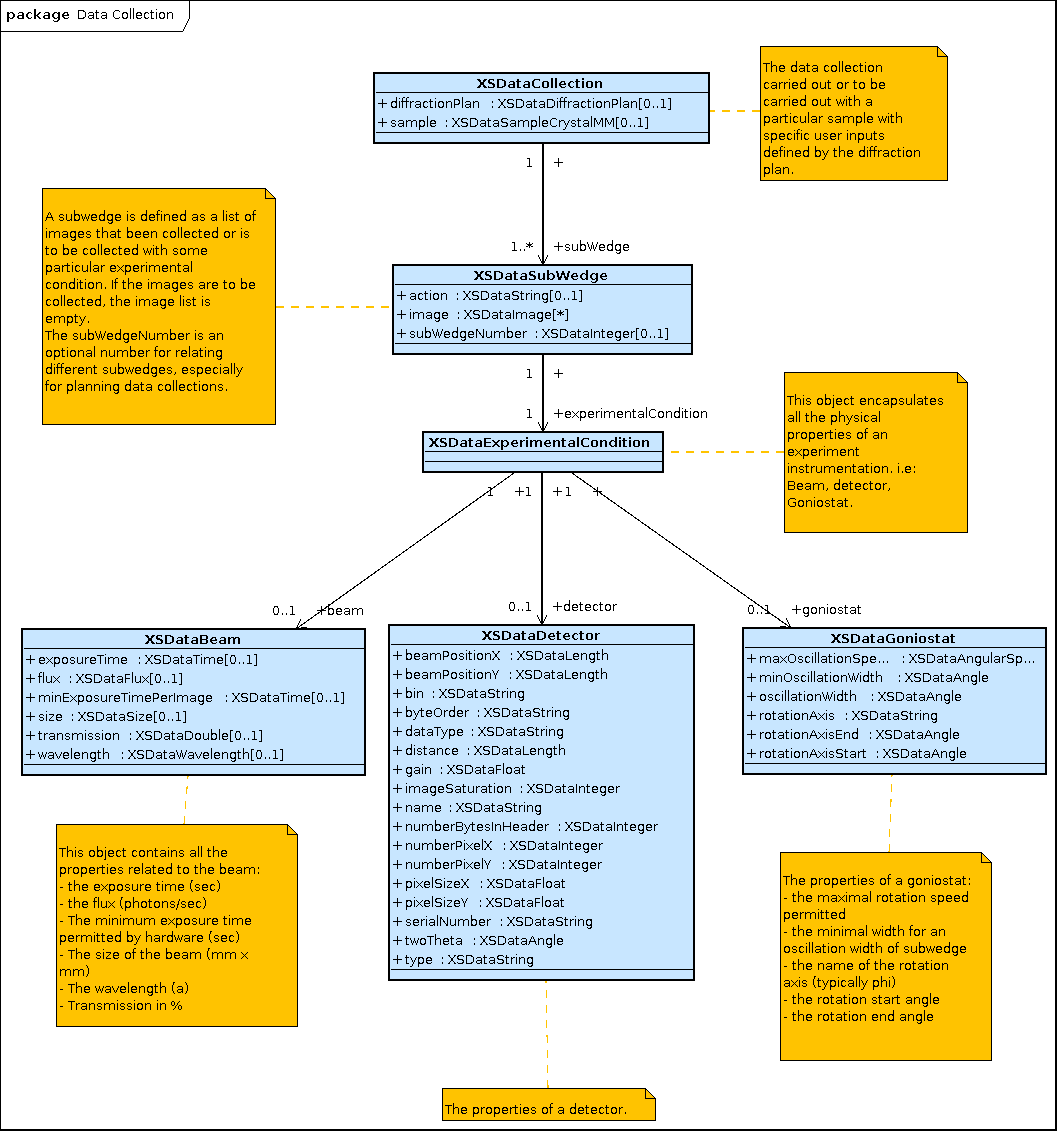
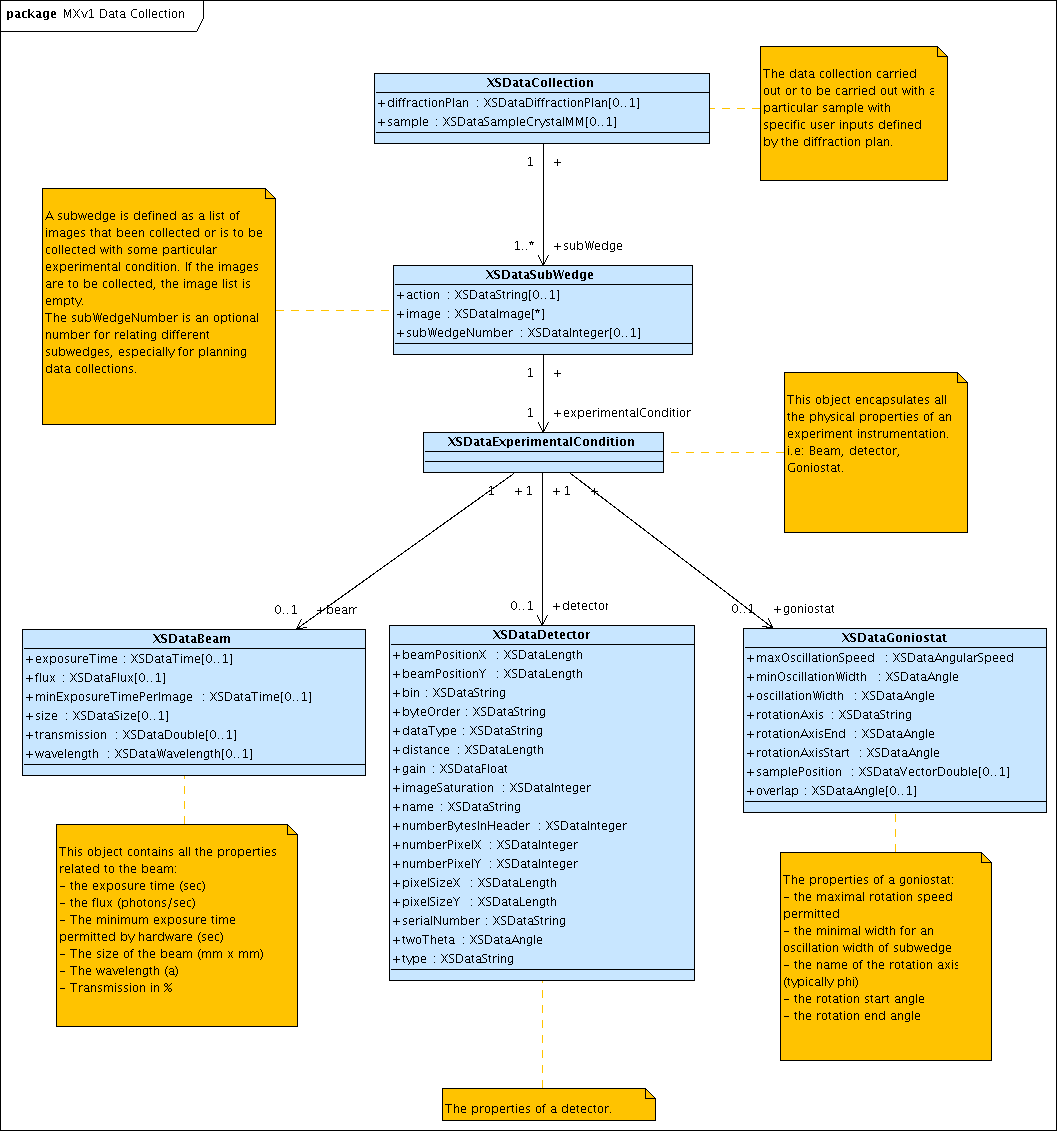
Added optional overlap to XSDataGoniostat
git-svn-id: https://forge.epn-campus.eu/svn/edna/trunk/edna@3735 4fc0fbde-e734-0410-b98b-b551705f41f8

diff --git a/mxv1/src/XSDataMXv1.py b/mxv1/src/XSDataMXv1.py
@@ -1,7 +1,7 @@
 #!/usr/bin/env python
 
 #
-# Generated Thu Sep 1 05:08::30 2011 by EDGenerateDS.
+# Generated Tue Oct 18 02:24::54 2011 by EDGenerateDS.
 #
 
 import sys
@@ -914,6 +914,103 @@ class XSDataChain(XSData):
 	parseFile = staticmethod( parseFile )
 # end class XSDataChain
 
+class XSDataChemicalCompositionMM(XSData):
+	"""This is the composition of a crystal sample of a Macro Molecule (MM stand for Macro Molecule)"""
+	def __init__(self, structure=None, solvent=None):
+		XSData.__init__(self, )
+		checkType("XSDataChemicalCompositionMM", "Constructor of XSDataChemicalCompositionMM", solvent, "XSDataSolvent")
+		self.__solvent = solvent
+		checkType("XSDataChemicalCompositionMM", "Constructor of XSDataChemicalCompositionMM", structure, "XSDataStructure")
+		self.__structure = structure
+	def getSolvent(self): return self.__solvent
+	def setSolvent(self, solvent):
+		checkType("XSDataChemicalCompositionMM", "setSolvent", solvent, "XSDataSolvent")
+		self.__solvent = solvent
+	def delSolvent(self): self.__solvent = None
+	# Properties
+	solvent = property(getSolvent, setSolvent, delSolvent, "Property for solvent")
+	def getStructure(self): return self.__structure
+	def setStructure(self, structure):
+		checkType("XSDataChemicalCompositionMM", "setStructure", structure, "XSDataStructure")
+		self.__structure = structure
+	def delStructure(self): self.__structure = None
+	# Properties
+	structure = property(getStructure, setStructure, delStructure, "Property for structure")
+	def export(self, outfile, level, name_='XSDataChemicalCompositionMM'):
+		showIndent(outfile, level)
+		outfile.write(unicode('<%s>\n' % name_))
+		self.exportChildren(outfile, level + 1, name_)
+		showIndent(outfile, level)
+		outfile.write(unicode('</%s>\n' % name_))
+	def exportChildren(self, outfile, level, name_='XSDataChemicalCompositionMM'):
+		XSData.exportChildren(self, outfile, level, name_)
+		if self.__solvent is not None:
+			self.solvent.export(outfile, level, name_='solvent')
+		else:
+			warnEmptyAttribute("solvent", "XSDataSolvent")
+		if self.__structure is not None:
+			self.structure.export(outfile, level, name_='structure')
+		else:
+			warnEmptyAttribute("structure", "XSDataStructure")
+	def build(self, node_):
+		for child_ in node_.childNodes:
+			nodeName_ = child_.nodeName.split(':')[-1]
+			self.buildChildren(child_, nodeName_)
+	def buildChildren(self, child_, nodeName_):
+		if child_.nodeType == Node.ELEMENT_NODE and \
+			nodeName_ == 'solvent':
+			obj_ = XSDataSolvent()
+			obj_.build(child_)
+			self.setSolvent(obj_)
+		elif child_.nodeType == Node.ELEMENT_NODE and \
+			nodeName_ == 'structure':
+			obj_ = XSDataStructure()
+			obj_.build(child_)
+			self.setStructure(obj_)
+		XSData.buildChildren(self, child_, nodeName_)
+	#Method for marshalling an object
+	def marshal( self ):
+		oStreamString = StringIO()
+		oStreamString.write(unicode('<?xml version="1.0" ?>\n'))
+		self.export( oStreamString, 0, name_="XSDataChemicalCompositionMM" )
+		oStringXML = oStreamString.getvalue()
+		oStreamString.close()
+		return oStringXML
+	#Only to export the entire XML tree to a file stream on disk
+	def exportToFile( self, _outfileName ):
+		outfile = open( _outfileName, "w" )
+		outfile.write(unicode('<?xml version=\"1.0\" ?>\n'))
+		self.export( outfile, 0, name_='XSDataChemicalCompositionMM' )
+		outfile.close()
+	#Deprecated method, replaced by exportToFile
+	def outputFile( self, _outfileName ):
+		print("WARNING: Method outputFile in class XSDataChemicalCompositionMM is deprecated, please use instead exportToFile!")
+		self.exportToFile(_outfileName)
+	#Method for making a copy in a new instance
+	def copy( self ):
+		return XSDataChemicalCompositionMM.parseString(self.marshal())
+	#Static method for parsing a string
+	def parseString( _inString ):
+		doc = minidom.parseString(_inString)
+		rootNode = doc.documentElement
+		rootObj = XSDataChemicalCompositionMM()
+		rootObj.build(rootNode)
+		# Check that all minOccurs are obeyed by marshalling the created object
+		oStreamString = StringIO()
+		rootObj.export( oStreamString, 0, name_="XSDataChemicalCompositionMM" )
+		oStreamString.close()
+		return rootObj
+	parseString = staticmethod( parseString )
+	#Static method for parsing a file
+	def parseFile( _inFilePath ):
+		doc = minidom.parse(_inFilePath)
+		rootNode = doc.documentElement
+		rootObj = XSDataChemicalCompositionMM()
+		rootObj.build(rootNode)
+		return rootObj
+	parseFile = staticmethod( parseFile )
+# end class XSDataChemicalCompositionMM
+
 class XSDataCollection(XSData):
 	"""The data collection carried out or to be carried out with a particular sample with specific user inputs defined by the diffraction plan."""
 	def __init__(self, subWedge=None, sample=None, diffractionPlan=None):
@@ -1035,7 +1132,8 @@ class XSDataCollection(XSData):
 # end class XSDataCollection
 
 class XSDataCharacterisation(XSData):
-	"""These classes are deprecated and will be removed once the corresponding plugins that use them have been removed."""
+	"""Deprecated - only used by EDPluginControlCharacterisationv10
+"""
 	def __init__(self, strategyResult=None, integrationResult=None, indexingResult=None, dataCollection=None):
 		XSData.__init__(self, )
 		checkType("XSDataCharacterisation", "Constructor of XSDataCharacterisation", dataCollection, "XSDataCollection")
@@ -1160,103 +1258,6 @@ class XSDataCharacterisation(XSData):
 		return rootObj
 	parseFile = staticmethod( parseFile )
 # end class XSDataCharacterisation
-
-class XSDataChemicalCompositionMM(XSData):
-	"""This is the composition of a crystal sample of a Macro Molecule (MM stand for Macro Molecule)"""
-	def __init__(self, structure=None, solvent=None):
-		XSData.__init__(self, )
-		checkType("XSDataChemicalCompositionMM", "Constructor of XSDataChemicalCompositionMM", solvent, "XSDataSolvent")
-		self.__solvent = solvent
-		checkType("XSDataChemicalCompositionMM", "Constructor of XSDataChemicalCompositionMM", structure, "XSDataStructure")
-		self.__structure = structure
-	def getSolvent(self): return self.__solvent
-	def setSolvent(self, solvent):
-		checkType("XSDataChemicalCompositionMM", "setSolvent", solvent, "XSDataSolvent")
-		self.__solvent = solvent
-	def delSolvent(self): self.__solvent = None
-	# Properties
-	solvent = property(getSolvent, setSolvent, delSolvent, "Property for solvent")
-	def getStructure(self): return self.__structure
-	def setStructure(self, structure):
-		checkType("XSDataChemicalCompositionMM", "setStructure", structure, "XSDataStructure")
-		self.__structure = structure
-	def delStructure(self): self.__structure = None
-	# Properties
-	structure = property(getStructure, setStructure, delStructure, "Property for structure")
-	def export(self, outfile, level, name_='XSDataChemicalCompositionMM'):
-		showIndent(outfile, level)
-		outfile.write(unicode('<%s>\n' % name_))
-		self.exportChildren(outfile, level + 1, name_)
-		showIndent(outfile, level)
-		outfile.write(unicode('</%s>\n' % name_))
-	def exportChildren(self, outfile, level, name_='XSDataChemicalCompositionMM'):
-		XSData.exportChildren(self, outfile, level, name_)
-		if self.__solvent is not None:
-			self.solvent.export(outfile, level, name_='solvent')
-		else:
-			warnEmptyAttribute("solvent", "XSDataSolvent")
-		if self.__structure is not None:
-			self.structure.export(outfile, level, name_='structure')
-		else:
-			warnEmptyAttribute("structure", "XSDataStructure")
-	def build(self, node_):
-		for child_ in node_.childNodes:
-			nodeName_ = child_.nodeName.split(':')[-1]
-			self.buildChildren(child_, nodeName_)
-	def buildChildren(self, child_, nodeName_):
-		if child_.nodeType == Node.ELEMENT_NODE and \
-			nodeName_ == 'solvent':
-			obj_ = XSDataSolvent()
-			obj_.build(child_)
-			self.setSolvent(obj_)
-		elif child_.nodeType == Node.ELEMENT_NODE and \
-			nodeName_ == 'structure':
-			obj_ = XSDataStructure()
-			obj_.build(child_)
-			self.setStructure(obj_)
-		XSData.buildChildren(self, child_, nodeName_)
-	#Method for marshalling an object
-	def marshal( self ):
-		oStreamString = StringIO()
-		oStreamString.write(unicode('<?xml version="1.0" ?>\n'))
-		self.export( oStreamString, 0, name_="XSDataChemicalCompositionMM" )
-		oStringXML = oStreamString.getvalue()
-		oStreamString.close()
-		return oStringXML
-	#Only to export the entire XML tree to a file stream on disk
-	def exportToFile( self, _outfileName ):
-		outfile = open( _outfileName, "w" )
-		outfile.write(unicode('<?xml version=\"1.0\" ?>\n'))
-		self.export( outfile, 0, name_='XSDataChemicalCompositionMM' )
-		outfile.close()
-	#Deprecated method, replaced by exportToFile
-	def outputFile( self, _outfileName ):
-		print("WARNING: Method outputFile in class XSDataChemicalCompositionMM is deprecated, please use instead exportToFile!")
-		self.exportToFile(_outfileName)
-	#Method for making a copy in a new instance
-	def copy( self ):
-		return XSDataChemicalCompositionMM.parseString(self.marshal())
-	#Static method for parsing a string
-	def parseString( _inString ):
-		doc = minidom.parseString(_inString)
-		rootNode = doc.documentElement
-		rootObj = XSDataChemicalCompositionMM()
-		rootObj.build(rootNode)
-		# Check that all minOccurs are obeyed by marshalling the created object
-		oStreamString = StringIO()
-		rootObj.export( oStreamString, 0, name_="XSDataChemicalCompositionMM" )
-		oStreamString.close()
-		return rootObj
-	parseString = staticmethod( parseString )
-	#Static method for parsing a file
-	def parseFile( _inFilePath ):
-		doc = minidom.parse(_inFilePath)
-		rootNode = doc.documentElement
-		rootObj = XSDataChemicalCompositionMM()
-		rootObj.build(rootNode)
-		return rootObj
-	parseFile = staticmethod( parseFile )
-# end class XSDataChemicalCompositionMM
 
 class XSDataCollectionPlan(XSData):
 	"""The comment can be used for describing exotic data collections, for example without collecting any images."""
@@ -2317,7 +2318,7 @@ class XSDataGoniostat(XSData):
 - the name of the rotation axis (typically phi)
 - the rotation start angle
 - the rotation end angle"""
-	def __init__(self, samplePosition=None, rotationAxisStart=None, rotationAxisEnd=None, rotationAxis=None, oscillationWidth=None, minOscillationWidth=None, maxOscillationSpeed=None):
+	def __init__(self, samplePosition=None, rotationAxisStart=None, rotationAxisEnd=None, rotationAxis=None, overlap=None, oscillationWidth=None, minOscillationWidth=None, maxOscillationSpeed=None):
 		XSData.__init__(self, )
 		checkType("XSDataGoniostat", "Constructor of XSDataGoniostat", maxOscillationSpeed, "XSDataAngularSpeed")
 		self.__maxOscillationSpeed = maxOscillationSpeed
@@ -2325,6 +2326,8 @@ class XSDataGoniostat(XSData):
 		self.__minOscillationWidth = minOscillationWidth
 		checkType("XSDataGoniostat", "Constructor of XSDataGoniostat", oscillationWidth, "XSDataAngle")
 		self.__oscillationWidth = oscillationWidth
+		checkType("XSDataGoniostat", "Constructor of XSDataGoniostat", overlap, "XSDataAngle")
+		self.__overlap = overlap
 		checkType("XSDataGoniostat", "Constructor of XSDataGoniostat", rotationAxis, "XSDataString")
 		self.__rotationAxis = rotationAxis
 		checkType("XSDataGoniostat", "Constructor of XSDataGoniostat", rotationAxisEnd, "XSDataAngle")
@@ -2354,6 +2357,13 @@ class XSDataGoniostat(XSData):
 	def delOscillationWidth(self): self.__oscillationWidth = None
 	# Properties
 	oscillationWidth = property(getOscillationWidth, setOscillationWidth, delOscillationWidth, "Property for oscillationWidth")
+	def getOverlap(self): return self.__overlap
+	def setOverlap(self, overlap):
+		checkType("XSDataGoniostat", "setOverlap", overlap, "XSDataAngle")
+		self.__overlap = overlap
+	def delOverlap(self): self.__overlap = None
+	# Properties
+	overlap = property(getOverlap, setOverlap, delOverlap, "Property for overlap")
 	def getRotationAxis(self): return self.__rotationAxis
 	def setRotationAxis(self, rotationAxis):
 		checkType("XSDataGoniostat", "setRotationAxis", rotationAxis, "XSDataString")
@@ -2402,6 +2412,8 @@ class XSDataGoniostat(XSData):
 			self.oscillationWidth.export(outfile, level, name_='oscillationWidth')
 		else:
 			warnEmptyAttribute("oscillationWidth", "XSDataAngle")
+		if self.__overlap is not None:
+			self.overlap.export(outfile, level, name_='overlap')
 		if self.__rotationAxis is not None:
 			self.rotationAxis.export(outfile, level, name_='rotationAxis')
 		else:
@@ -2436,6 +2448,11 @@ class XSDataGoniostat(XSData):
 			obj_ = XSDataAngle()
 			obj_.build(child_)
 			self.setOscillationWidth(obj_)
+		elif child_.nodeType == Node.ELEMENT_NODE and \
+			nodeName_ == 'overlap':
+			obj_ = XSDataAngle()
+			obj_.build(child_)
+			self.setOverlap(obj_)
 		elif child_.nodeType == Node.ELEMENT_NODE and \
 			nodeName_ == 'rotationAxis':
 			obj_ = XSDataString()
